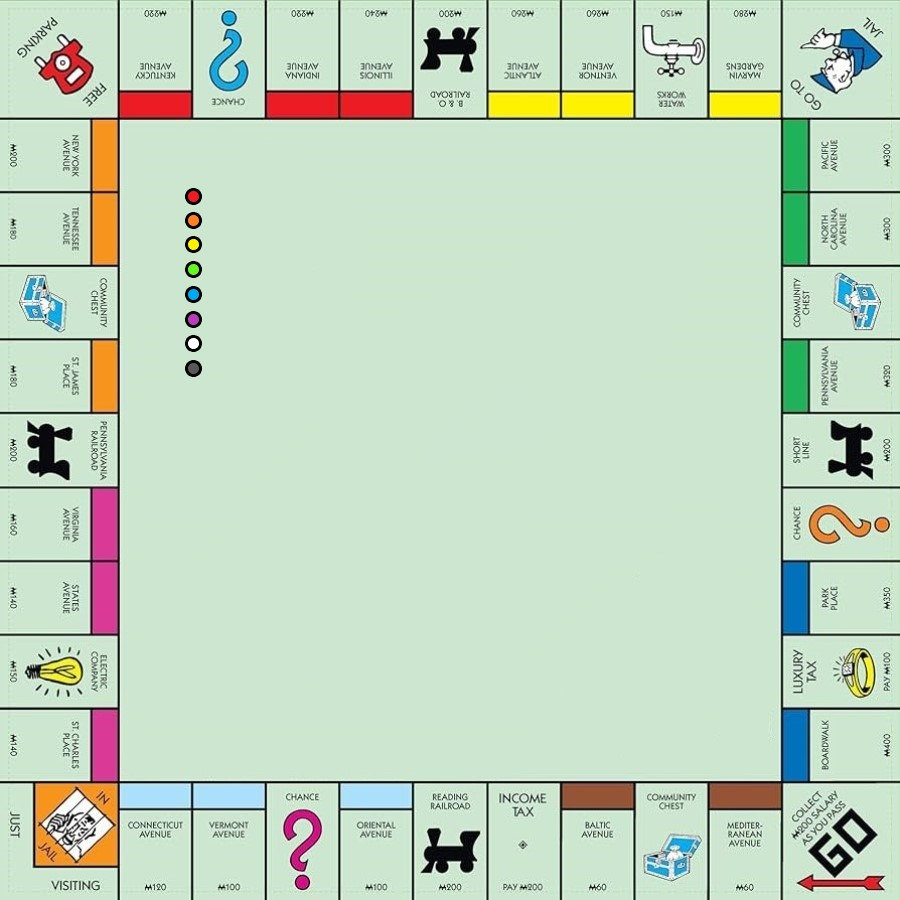
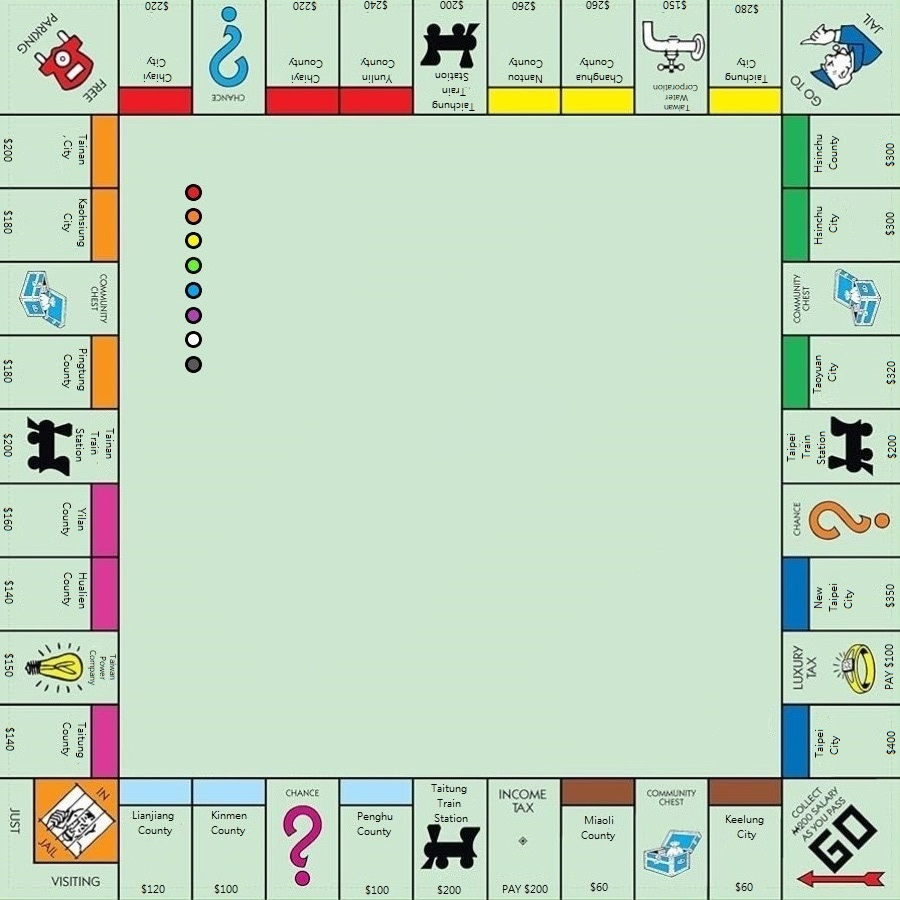
changed board to taiwan version and updated build command

diff --git a/src/testcli.cpp b/src/testcli.cpp
@@ -30,7 +30,7 @@ vector<string> eventPrefixes = {"move ", "build ", "log ", "balance ", "roll", "
 
 //usage: (split commands with /, for example: move 3 7/log player 3 moved for 7 steps)
 //       move playerId steps    (moves playerId for a number of steps)
-//       build propertyId       (upgrades property at propertyId by 1 level)
+//       build propertyId diff  (upgrades or downgrades property at propertyId by diff level)
 //       log message            (displays message in the text box)
 //       balance number         (if number is negative, number will be deducted from balance)
 //       roll                   (client will return OK to server once button is clicked)
@@ -38,11 +38,11 @@ vector<string> eventPrefixes = {"move ", "build ", "log ", "balance ", "roll", "
 //       addprop string         (string should be in the format of propertyName $price)
 //       remprop prefix         (remove the first option that starts with prefix within the combo box)
 //       asktobuy               (asks player to buy a property, player will return "YES\n" or "NO\n")
-//       asktosell              (asks player to sell one of their properties. player will return "indexofproprty\n")
+//       asktosell              (asks player to sell one of their properties. player will return "nameofproperty\n")
 //       isfirst                (allows the user to start the game, when they do so the returned message is "START\n")
 //       setplayers playerCount playername0 playername1 playername2..... (tells the client how many players to render and their player names)
-//       remplayer playerId
-//       ownprop playerName propertyId
+//       remplayer playerId     (removes player from the game (unrender))
+//       ownprop playerId propertyId    (set property to be owned by playerId)
 
 wxPoint coords[40] = 
 {
@@ -92,9 +92,9 @@ map<string, int> propertyIndices =
 {
     {"Keelung City", 1}, {"Miaoli Count(r)y", 3}, {"Taitung Train Station", 5}, {"Penghu County", 6},
     {"Kinmen County", 8}, {"Lianjian County", 9}, {"Taitung County", 11}, {"Taiwan Power Company", 12},
-    {"Hualien County", 13}, {"Yilan County", 14}, {"Tainan Train Station", 15}, {"Pingtun County", 16},
+    {"Hualien County", 13}, {"Yilan County", 14}, {"Tainan Train Station", 15}, {"Pingtung County", 16},
     {"Kaohsiung City", 18}, {"Tainan City", 19}, {"Chiayi City", 21}, {"Chiayi County", 23}, {"Yunlin County", 24},
-    {"Taichung Train Station", 25}, {"Nantou County", 26}, {"Chanhua County", 27}, {"Taiwan Water Corporation", 28},
+    {"Taichung Train Station", 25}, {"Nantou County", 26}, {"Changhua County", 27}, {"Taiwan Water Corporation", 28},
     {"Taichung City", 29}, {"Hsinchu County", 31}, {"Hsinchu City", 32}, {"Taoyuan City", 34}, {"Taipei Train Station", 35},
     {"New Taipei City", 37}, {"Taipei City", 39}
 };
@@ -374,22 +374,10 @@ wxThread::ExitCode MyThread::Entry()
                             }
                             case 1: //build
                             {
-                                try
-                                {
-                                    int propertyId = stoi(argument);
-                                    wxCommandEvent evt(wxEVT_THREAD_BUILD_PROPERTY, wxID_ANY);
+                                wxCommandEvent evt(wxEVT_THREAD_BUILD_PROPERTY, wxID_ANY);
+                                evt.SetString(argument);
 
-                                    evt.SetInt(propertyId);
-                                    m_pHandler->GetEventHandler()->AddPendingEvent(evt);   
-                                }
-                                catch (const invalid_argument& e) 
-                                {
-                                    wxMessageOutputDebug().Printf("input: %s", "ERROR: Invalid build command argument: " + argument);
-                                }
-                                catch (const out_of_range& e) 
-                                {
-                                    wxMessageOutputDebug().Printf("input: %s", "ERROR: Invalid build command argument: " + argument);
-                                }
+                                m_pHandler->GetEventHandler()->AddPendingEvent(evt); 
                                 break;
                             }
                             case 2: //log
@@ -569,23 +557,32 @@ void MyFrame::movePlayer(wxCommandEvent& event)
 
 void MyFrame::buildProperty(wxCommandEvent& event)
 {
-    int propertyId = event.GetInt();
+    string argument = event.GetString().ToStdString();
+    istringstream iss(argument);
 
-    if((propertyCoord[propertyId].x == 0 && propertyCoord[propertyId].y == 0) || propertyState[propertyId] == 5) 
-        return;
+    int propertyId, diff;
 
-    propertyState[propertyId]++;
-
-    if(propertyCoord[propertyId].y >= 782 || propertyCoord[propertyId].y < 118)
+    if (iss >> propertyId >> diff) 
     {
-        wxBitmap bmp(propertyImageSrc[propertyState[propertyId]], wxBITMAP_TYPE_PNG);
-        imgProperty[propertyId]->SetBitmap(bmp);
+        if((propertyCoord[propertyId].x == 0 && propertyCoord[propertyId].y == 0)) 
+            return;
+
+        propertyState[propertyId] += diff;
+
+        if(propertyCoord[propertyId].y >= 782 || propertyCoord[propertyId].y < 118)
+        {
+            wxBitmap bmp(propertyImageSrc[propertyState[propertyId]], wxBITMAP_TYPE_PNG);
+            imgProperty[propertyId]->SetBitmap(bmp);
+        }
+        else
+        {
+            wxBitmap bmp(vertPropertyImageSrc[propertyState[propertyId]], wxBITMAP_TYPE_PNG);
+            imgProperty[propertyId]->SetBitmap(bmp);
+        }
     }
-    else
-    {
-        wxBitmap bmp(vertPropertyImageSrc[propertyState[propertyId]], wxBITMAP_TYPE_PNG);
-        imgProperty[propertyId]->SetBitmap(bmp);
-    }
+    else 
+        wxMessageOutputDebug().Printf("input: %s", "ERROR: Invalid build command argument: " + argument);
+
 }
 
 void MyFrame::modifyBalance(wxCommandEvent& event)
